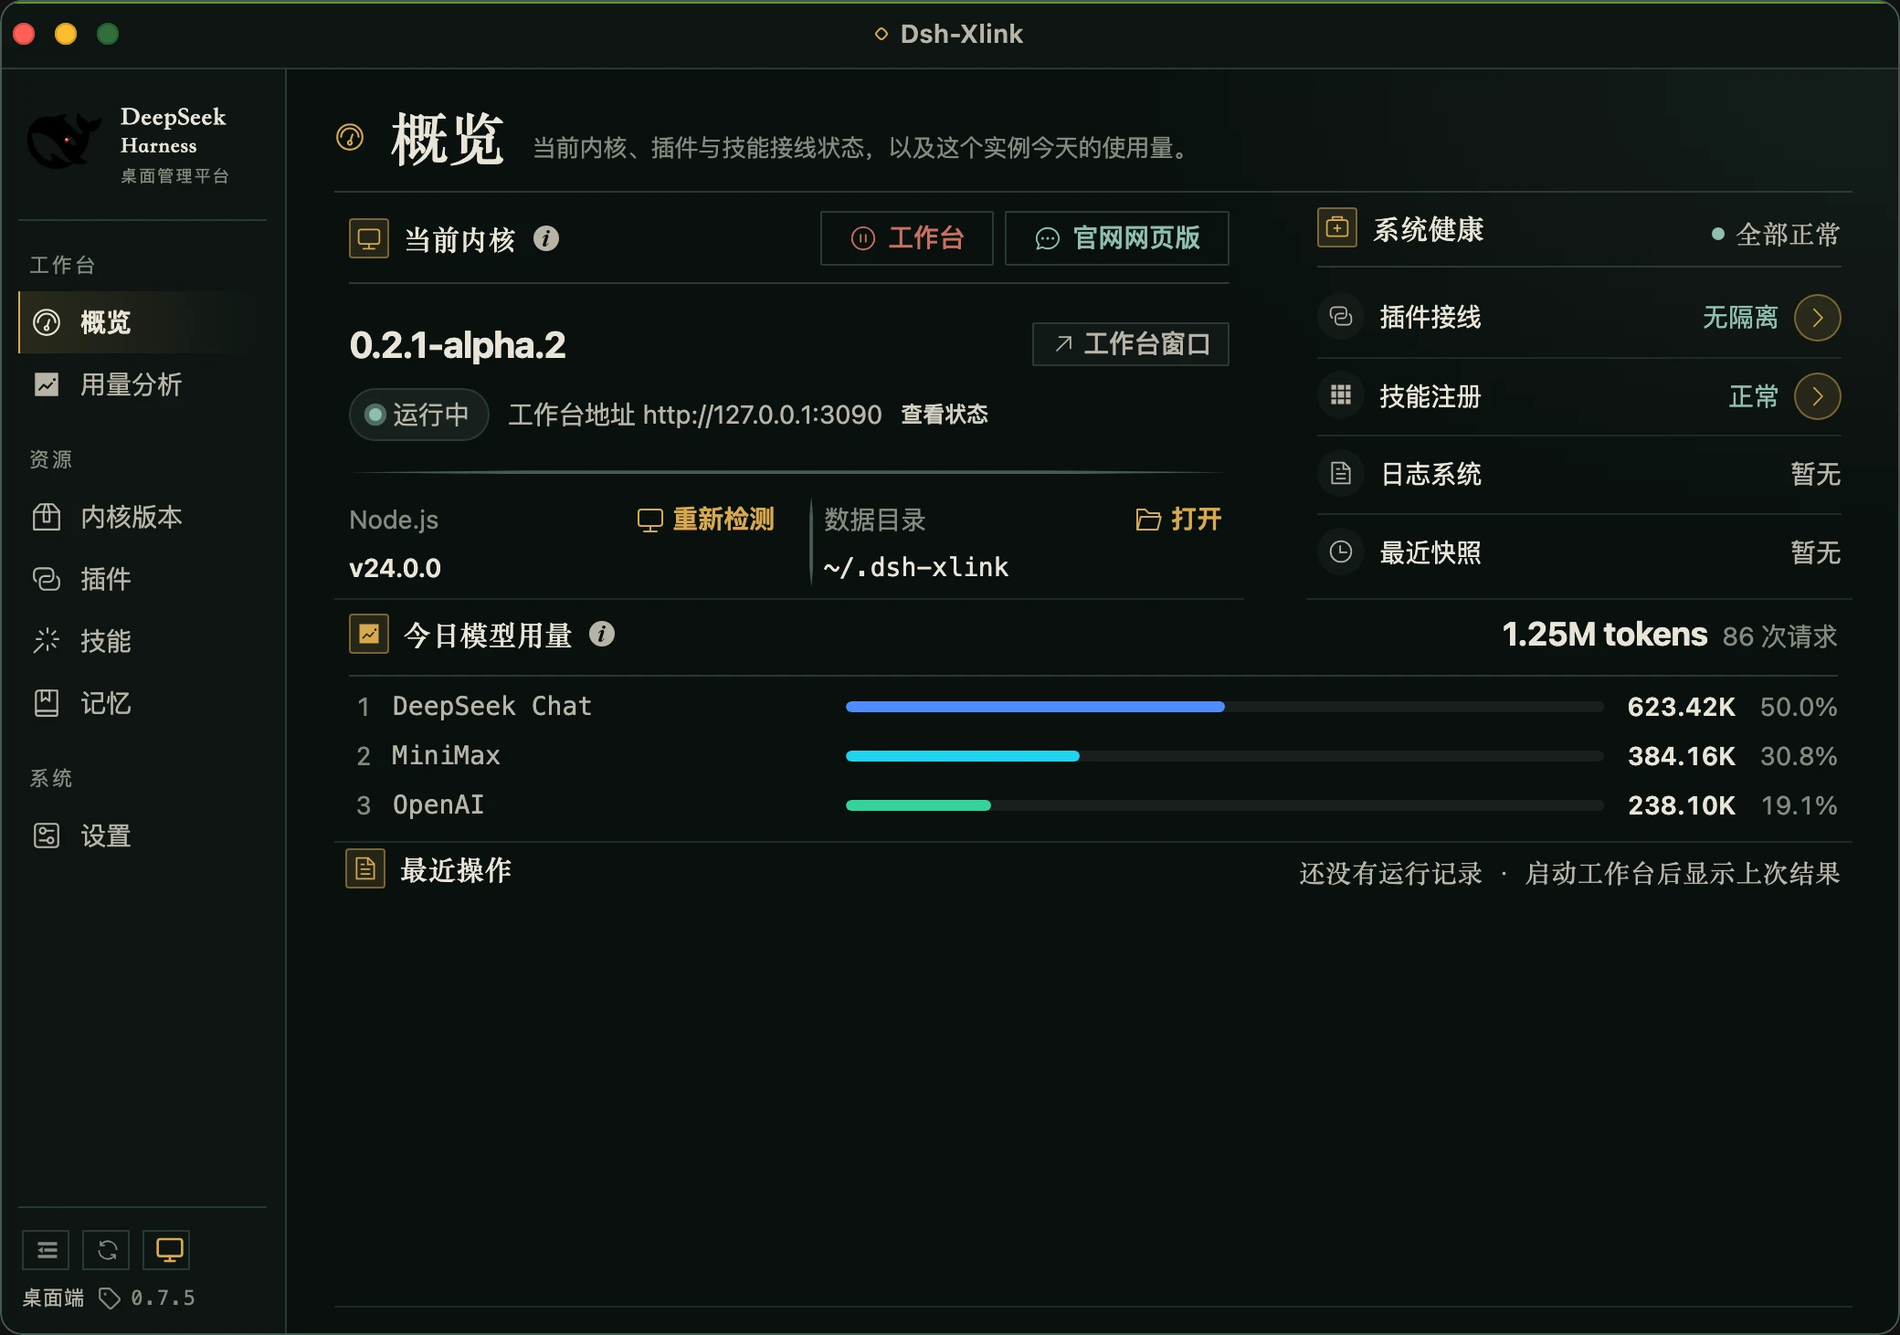
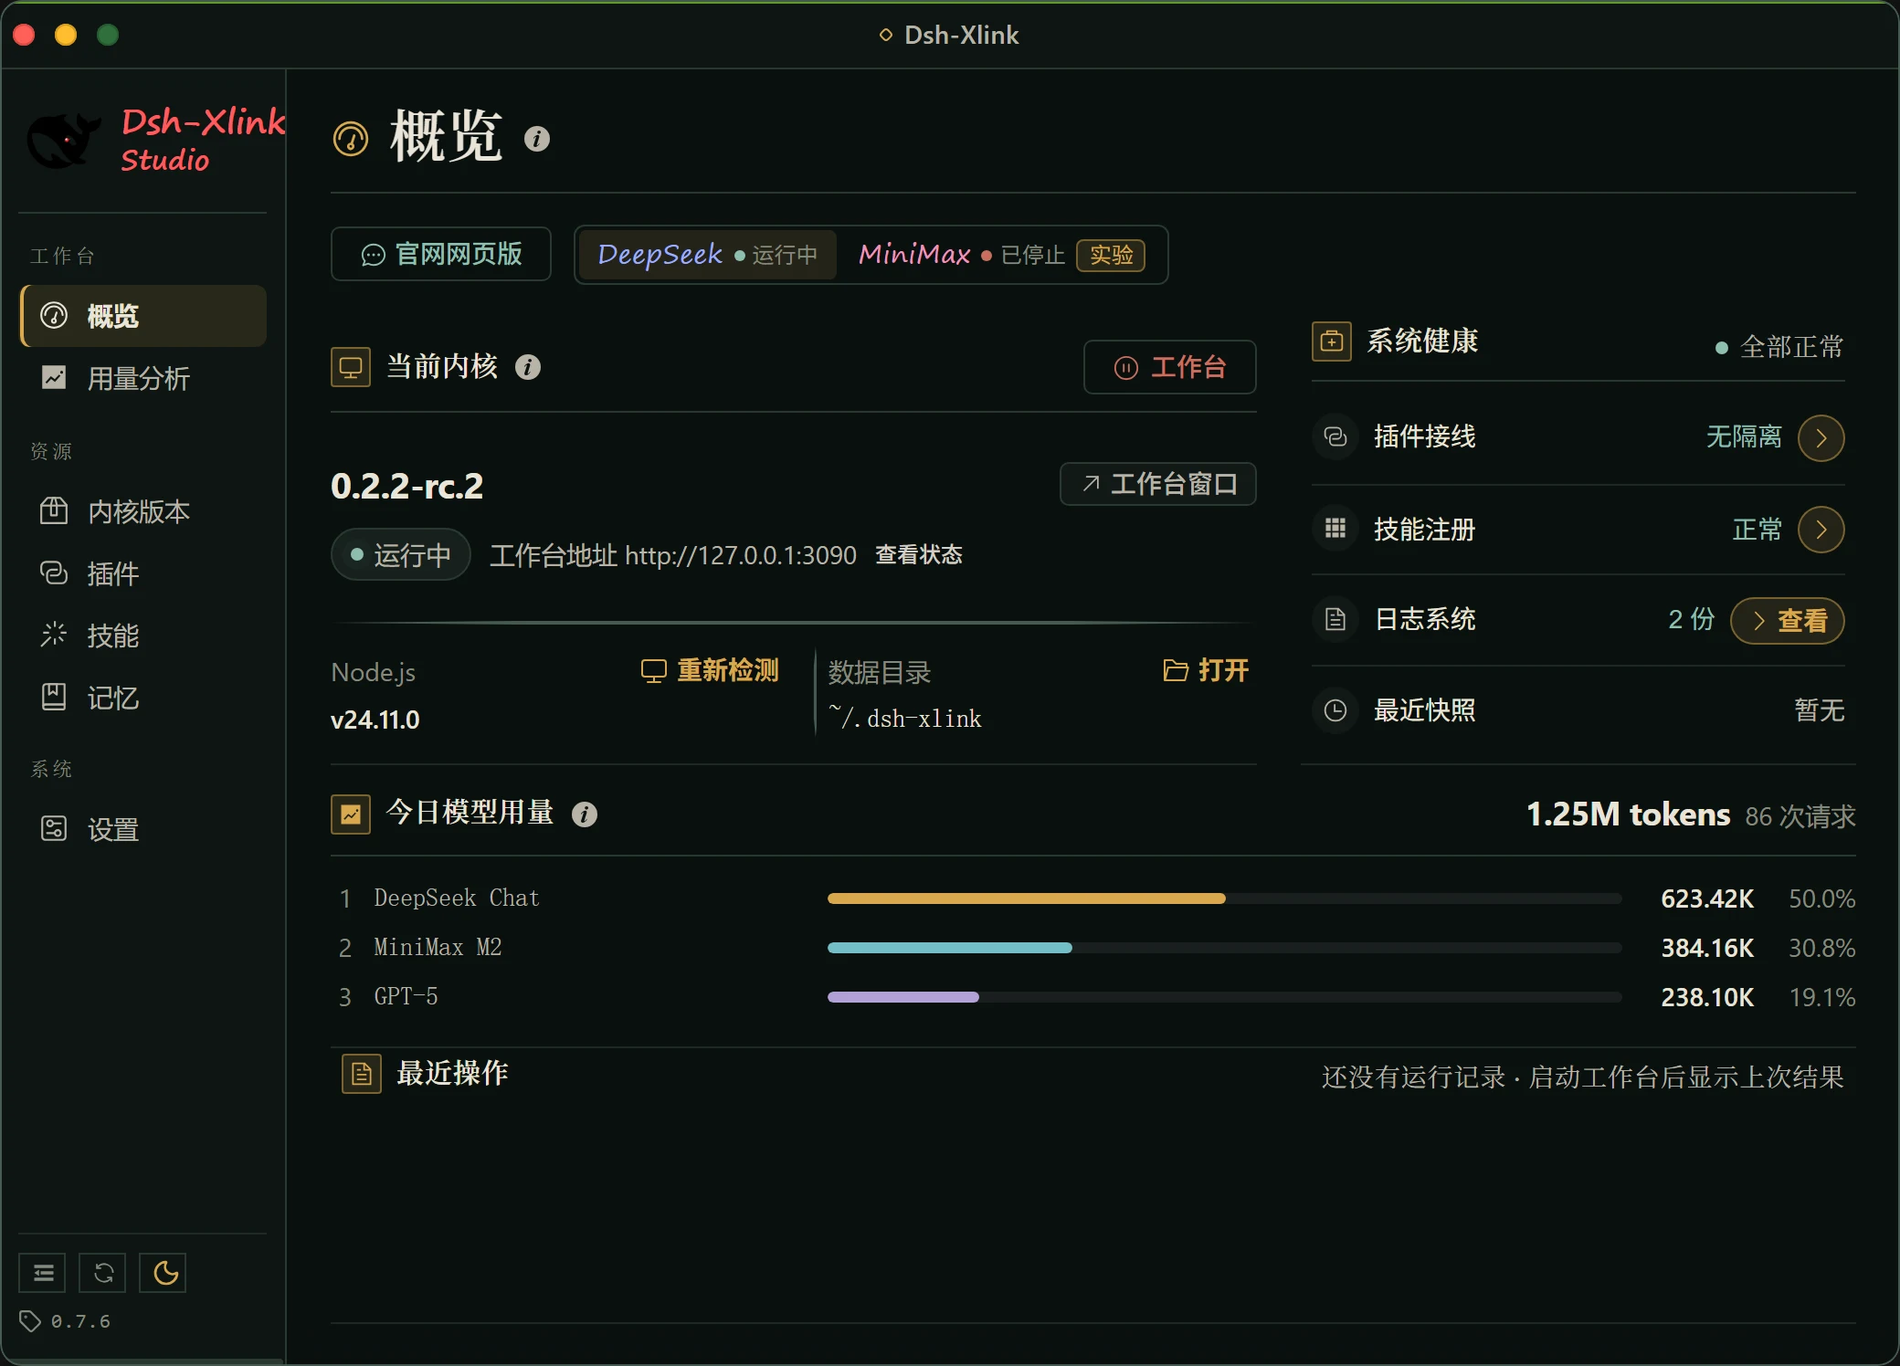
feat(website): 界面图更新到 0.7.6 并加入 MiniMax 双内核说明
概览截图按 0.7.6 管理面板源码重渲染（1040x748、2x），首页/功能页同步版本号；新增双内核小节与 MiniMax 内核截图，功能目录补「双内核」；修正窄屏下关闭区的标题断行。

diff --git a/website/index.html b/website/index.html
@@ -3,7 +3,7 @@
 <head>
   <meta charset="utf-8">
   <meta name="viewport" content="width=device-width, initial-scale=1">
-  <meta name="description" content="dsh-xlink：面向 DeepSeek Harness 的桌面工作台，支持多模型、会话引用和官网对话内容引用。">
+  <meta name="description" content="dsh-xlink：面向 DeepSeek Harness 的桌面工作台，支持 DSH 与实验性 MiniMax 双内核、多模型和官网对话引用。">
   <meta name="theme-color" content="#f2f1e9">
   <title>dsh-xlink · 让对话接着往前走</title>
   <link rel="icon" href="assets/whale-icon.svg" type="image/svg+xml">
@@ -20,6 +20,7 @@
       </a>
       <nav class="nav" aria-label="主导航">
         <a href="#experience">界面预览</a>
+        <a href="#kernels">双内核</a>
         <a href="features.html">功能说明</a>
         <a href="https://github.com/July-X/dsh-xlink">GitHub <span aria-hidden="true">↗</span></a>
       </nav>
@@ -30,7 +31,7 @@
   <main id="main">
     <section class="hero wrap" id="experience">
       <div class="hero-copy">
-        <p class="eyebrow"><span class="status-dot"></span> DEEPSEEK HARNESS DESKTOP <span class="eyebrow-rule"></span> V0.7.5</p>
+        <p class="eyebrow"><span class="status-dot"></span> DEEPSEEK HARNESS DESKTOP <span class="eyebrow-rule"></span> V0.7.6</p>
         <h1>让对话<br>接着往前走<span class="punctuation">。</span></h1>
         <p class="hero-lead">多模型、多会话，还有散落在官网里的对话。把需要的上下文带回同一个工作台，继续你的工作。</p>
         <div class="hero-actions">
@@ -42,8 +43,8 @@
       <div class="hero-visual">
         <div class="visual-meta"><span>THE DESKTOP WORKSPACE</span><span>01 — 02</span></div>
         <div class="compare" style="--split: 50%">
-          <img class="compare-image" src="assets/overview-dark.webp" width="2080" height="1462" alt="dsh-xlink 深色概览界面，显示内核状态、系统健康和今日模型用量。">
-          <div class="compare-light" aria-hidden="true"><img class="compare-image" src="assets/overview-light.webp" width="2080" height="1462" alt=""></div>
+          <img class="compare-image" src="assets/overview-dark.webp" width="2080" height="1496" alt="dsh-xlink 深色概览界面，显示 DSH / MiniMax 内核切换、系统健康和今日模型用量。">
+          <div class="compare-light" aria-hidden="true"><img class="compare-image" src="assets/overview-light.webp" width="2080" height="1496" alt=""></div>
           <div class="compare-divider" aria-hidden="true"><span>‹ <i></i> ›</span></div>
           <input class="compare-range" type="range" min="0" max="100" value="50" aria-label="左右滑动对比浅色与深色界面" aria-valuetext="浅色界面 50%，深色界面 50%">
         </div>
@@ -53,7 +54,7 @@
     </section>
 
     <div class="facts-bar">
-      <div class="wrap facts-inner"><span>一个桌面外壳 <b>·</b> 一个熟悉的工作台</span><span>官方 dsh 内核</span><span>MIT 开源</span></div>
+      <div class="wrap facts-inner"><span>一个桌面外壳 <b>·</b> 一个熟悉的工作台</span><span>DSH / MiniMax 双内核</span><span>MIT 开源</span></div>
     </div>
 
     <section class="section wrap story" id="references">
@@ -76,13 +77,34 @@
       </div>
     </section>
 
+    <section class="section wrap story" id="kernels">
+      <div class="section-intro">
+        <p class="eyebrow">02 / TWO KERNELS</p>
+        <h2>DSH 之外，<br>再放一个内核。</h2>
+        <p>开启 MiniMax 体验后，概览页会多一个内核切换器：安装 MiniMax Code，用它自己的实例和端口启动工作台。两个内核可以同时运行，插件、技能与记忆按各自协议接入。</p>
+        <a class="text-link" href="features.html#kernels">了解双内核 <span aria-hidden="true">→</span></a>
+      </div>
+      <div class="kernel-visual">
+        <div class="detail-screen">
+          <img src="assets/minimax-dark.webp" width="2080" height="1496" alt="dsh-xlink 深色概览界面，已切换到 MiniMax 内核，显示版本 0.1.7、运行状态、工作台地址和系统健康。">
+        </div>
+        <div class="detail-screen__caption"><span>MINIMAX KERNEL · 概览</span><span>示意</span></div>
+        <div class="detail-list kernel-facts">
+          <div><b>0.1.7</b><span>当前支持的 MiniMax Code 版本</span></div>
+          <div><b>2233 / 3344</b><span>工作台与 App 端口</span></div>
+          <div><b>独立实例</b><span>内核、端口与浏览器档案各自独立</span></div>
+        </div>
+        <p class="demo-footnote">MiniMax 是实验功能，默认关闭；在设置里开启后出现切换器。真实模型与浏览器能力的验收仍在进行。</p>
+      </div>
+    </section>
+
     <section class="section feature-section" id="features">
       <div class="wrap">
-        <div class="section-heading"><div><p class="eyebrow">02 / MADE FOR THE WORK</p><h2>工作台之外，<br>也照顾好工作台。</h2></div><a class="text-link" href="features.html">查看全部功能 <span aria-hidden="true">→</span></a></div>
+        <div class="section-heading"><div><p class="eyebrow">03 / MADE FOR THE WORK</p><h2>工作台之外，<br>也照顾好工作台。</h2></div><a class="text-link" href="features.html">查看全部功能 <span aria-hidden="true">→</span></a></div>
         <div class="feature-grid">
           <article class="feature-item"><span class="feature-number">01</span><div><h3>多模型，自由选择</h3><p>在工作台配置模型提供商，也可以通过内置插件登录 ChatGPT，按需要选择模型。</p></div><span class="feature-arrow" aria-hidden="true">↗</span></article>
           <article class="feature-item"><span class="feature-number">02</span><div><h3>官网会话，带回来用</h3><p>引用 DeepSeek、MiniMax 和 ChatGPT 网页对话中可提取的文字，省去反复复制。</p></div><span class="feature-arrow" aria-hidden="true">↗</span></article>
-          <article class="feature-item"><span class="feature-number">03</span><div><h3>内核、插件和技能</h3><p>安装与切换内核版本，管理插件和技能；安装插件前可先做兼容性预检。</p></div><span class="feature-arrow" aria-hidden="true">↗</span></article>
+          <article class="feature-item"><span class="feature-number">03</span><div><h3>内核、插件和技能</h3><p>安装与切换 dsh 和 MiniMax 的内核版本，管理插件和技能；安装插件前可先做兼容性预检。</p></div><span class="feature-arrow" aria-hidden="true">↗</span></article>
           <article class="feature-item"><span class="feature-number">04</span><div><h3>用量与本地记忆</h3><p>查看模型用量和可查询的套餐余额；按需启用本地记忆，让约定留在手边。</p></div><span class="feature-arrow" aria-hidden="true">↗</span></article>
         </div>
       </div>

diff --git a/website/features.html b/website/features.html
@@ -3,7 +3,7 @@
 <head>
   <meta charset="utf-8">
   <meta name="viewport" content="width=device-width, initial-scale=1">
-  <meta name="description" content="了解 dsh-xlink 的多模型、会话引用、官网对话、内核管理与用量分析功能。">
+  <meta name="description" content="了解 dsh-xlink 的多模型、会话引用、官网对话、DSH / MiniMax 双内核与用量分析功能。">
   <meta name="theme-color" content="#f2f1e9">
   <title>功能说明 · dsh-xlink</title>
   <link rel="icon" href="assets/whale-icon.svg" type="image/svg+xml">
@@ -21,10 +21,10 @@
 
   <main id="main">
     <section class="feature-hero wrap">
-      <div><p class="eyebrow">THE WORKSPACE / V0.7.5</p><h1>你的工作，<br>可以接着聊<span class="punctuation">。</span></h1></div>
-      <div class="feature-hero-aside"><p>从模型配置到会话引用，再到内核和用量管理。这里介绍当前版本已经提供的功能。</p><a class="text-link" href="index.html#experience">查看界面 <span aria-hidden="true">→</span></a></div>
+      <div><p class="eyebrow">THE WORKSPACE / V0.7.6</p><h1>你的工作，<br>可以接着聊<span class="punctuation">。</span></h1></div>
+      <div class="feature-hero-aside"><p>从模型配置、会话引用到 DSH / MiniMax 双内核和用量管理。这里介绍当前版本已经提供的功能。</p><a class="text-link" href="index.html#experience">查看界面 <span aria-hidden="true">→</span></a></div>
     </section>
-    <nav class="feature-nav wrap" aria-label="功能目录"><a href="#models">01 多模型</a><a href="#references">02 会话引用</a><a href="#desktop">03 桌面管理</a><a href="#usage">04 用量与记忆</a></nav>
+    <nav class="feature-nav wrap" aria-label="功能目录"><a href="#models">01 多模型</a><a href="#references">02 会话引用</a><a href="#kernels">03 双内核</a><a href="#desktop">04 桌面管理</a><a href="#usage">05 用量与记忆</a></nav>
 
     <section class="detail-section wrap" id="models">
       <div class="detail-index"><span>01 / MODELS</span><span>选择适合当前任务的模型</span></div>
@@ -40,13 +40,22 @@
       </div>
     </section>
 
+    <section class="detail-section" id="kernels">
+      <div class="wrap"><div class="detail-index"><span>03 / TWO KERNELS</span><span>一个窗口，两个内核</span></div>
+        <div class="detail-content"><div><h2>DSH 与 MiniMax，<br>各跑各的。</h2><p class="detail-lead">在设置里开启 MiniMax 体验后，概览页与内核版本页出现内核切换器。MiniMax Code 从官方 npm 版本安装，用自己的实例、端口和浏览器档案启动工作台，与 dsh 互不干扰。</p><p>两个内核可以同时运行、各自启停。公共页面只有一份骨架，切换时只换数据与少量字段；插件、技能与记忆按各自协议接入，Ponytail 也能在 MiniMax 侧启用。</p><a class="detail-source" href="https://github.com/July-X/dsh-xlink/blob/main/docs/architecture/multi-kernel/minimax-webui-integration-plan.md">查看 MiniMax 接入范围与验收状态 ↗</a></div>
+          <div class="detail-screen"><a href="assets/minimax-dark.webp" target="_blank" rel="noopener" aria-label="查看 MiniMax 内核概览原图（新窗口，图中为示例数据）"><img src="assets/minimax-dark.webp" width="2080" height="1496" alt="dsh-xlink 深色概览界面，已切换到 MiniMax 内核，状态与用量为示例数据。"><span class="detail-screen__caption"><span>MiniMax 内核 · 示例数据</span><span>查看原图 ↗</span></span></a></div>
+        </div>
+        <p class="detail-note">MiniMax 是实验功能，默认关闭，当前支持 0.1.7。真实模型、浏览器能力与安装包验收仍在进行；范围与最新结论以接入计划为准。</p>
+      </div>
+    </section>
+
     <section class="detail-section wrap" id="desktop">
-      <div class="detail-index"><span>03 / DESKTOP</span><span>给工作台一个安稳的家</span></div>
-      <div class="detail-content"><div><h2>把日常管理，<br>收进一个窗口。</h2><p class="detail-lead">安装、切换官方 dsh 内核，管理插件和技能。插件安装前可以先运行兼容性预检，遇到问题也有诊断与环境恢复入口。</p><p>关闭窗口后，应用可以继续在后台运行；从托盘或菜单栏回到工作台。深色、浅色和跟随系统三种外观可选。</p></div><div class="detail-screen"><a href="assets/overview-dark.webp" target="_blank" rel="noopener" aria-label="查看深色概览界面原图（新窗口，图中为示例数据）"><img src="assets/overview-dark.webp" width="2080" height="1462" alt="dsh-xlink 深色概览界面，状态和用量为示例数据。"><span class="detail-screen__caption"><span>当前界面渲染示意 · 示例数据</span><span>查看原图 ↗</span></span></a></div></div>
+      <div class="detail-index"><span>04 / DESKTOP</span><span>给工作台一个安稳的家</span></div>
+      <div class="detail-content"><div><h2>把日常管理，<br>收进一个窗口。</h2><p class="detail-lead">安装、切换官方 dsh 与 MiniMax 内核，管理插件和技能。插件安装前可以先运行兼容性预检，遇到问题也有诊断与环境恢复入口。</p><p>关闭窗口后，应用可以继续在后台运行；从托盘或菜单栏回到工作台。深色、浅色和跟随系统三种外观可选。</p></div><div class="detail-screen"><a href="assets/overview-dark.webp" target="_blank" rel="noopener" aria-label="查看深色概览界面原图（新窗口，图中为示例数据）"><img src="assets/overview-dark.webp" width="2080" height="1496" alt="dsh-xlink 深色概览界面，显示 DSH / MiniMax 内核切换，状态和用量为示例数据。"><span class="detail-screen__caption"><span>当前界面渲染示意 · 示例数据</span><span>查看原图 ↗</span></span></a></div></div>
     </section>
 
     <section class="detail-section wrap" id="usage">
-      <div class="detail-index"><span>04 / INSIGHT & MEMORY</span><span>用量有记录，约定有地方放</span></div>
+      <div class="detail-index"><span>05 / INSIGHT & MEMORY</span><span>用量有记录，约定有地方放</span></div>
       <div class="detail-content"><div><h2>看得见用量，<br>记得住约定。</h2><p class="detail-lead">查看本地内核的模型用量，以及已配置提供商可查询的套餐额度。也可以显式选择读取本机 Codex 或 MiniMax Desktop 的用量，来源分开统计。</p><p>本地记忆可按需启用，保存项目约定、工作交接和经验。使用远端模型时，注入的记忆会成为模型输入的一部分。</p></div><div class="detail-list"><div><b>90 天</b><span>本地模型用量统计窗口</span></div><div><b>按需开启</b><span>外部工具用量与本地记忆</span></div><div><b>按实例隔离</b><span>会话、记忆与内核数据</span></div></div></div>
     </section>
 

diff --git a/website/style.css b/website/style.css
@@ -140,6 +140,7 @@ h1, h2 { font-family: var(--serif); font-weight: 600; letter-spacing: -.06em; }
 .reference-steps small { color: #798b7b; font-size: 12px; }
 .detail-note { max-width: 900px; margin: 55px 0 0; padding-top: 18px; border-top: 1px solid #bdcbbd; color: #677c6a; font-size: 12px; line-height: 1.9; }
 #desktop .detail-content { grid-template-columns: 1fr; gap: 38px; }
+.kernel-facts { margin-top: 28px; }
 .detail-screen { width: min(100%, 1040px); }
 .detail-screen img { width: 100%; height: auto; border: 1px solid #607468; box-shadow: 0 18px 45px -25px #344b3b; }
 .detail-screen__caption { display: flex; justify-content: space-between; gap: 12px; margin-top: 15px; color: #718174; font-size: 11px; }
@@ -187,6 +188,7 @@ h1, h2 { font-family: var(--serif); font-weight: 600; letter-spacing: -.06em; }
   .feature-item, .feature-item:nth-child(even) { min-height: 0; padding: 27px 0; border-left: 0; }
   .feature-item h3 { font-size: 20px; }
   .closing { display: block; margin-top: 75px; padding: 42px 28px; }
+  .closing h2 { font-size: clamp(28px, 8.2vw, 33px); }
   .closing-actions { margin-top: 30px; max-width: 220px; }
   .site-footer { flex-wrap: wrap; gap: 12px 25px; line-height: 1.7; }
   .site-footer > span { flex-basis: 100%; order: 3; }

diff --git a/README.md b/README.md
@@ -10,7 +10,7 @@
 
 ## 界面速览
 
-管理面板支持浅色、深色和跟随系统。设置页将 DSH 稳定内核端口与 MiniMax 实验内核双端口分组显示，MiniMax 使用粉色边框和实验标识；仍由同一个「保存配置」按钮保存。保存只提交点击时的端口值，等待期间继续编辑的内容会保留为未保存草稿。概览页显示内核、系统健康和今日模型用量；套餐额度与完整用量统计在「工作台 → 用量分析」中。下面的界面图基于 v0.7.5 前端渲染，状态与用量使用示例数据。打开[宣传站](https://dsh-xlink.pages.dev/)可以左右拖动对比两种主题。
+管理面板支持浅色、深色和跟随系统。设置页将 DSH 稳定内核端口与 MiniMax 实验内核双端口分组显示，MiniMax 使用粉色边框和实验标识；仍由同一个「保存配置」按钮保存。保存只提交点击时的端口值，等待期间继续编辑的内容会保留为未保存草稿。概览页显示内核、系统健康和今日模型用量；套餐额度与完整用量统计在「工作台 → 用量分析」中。下面的界面图基于 v0.7.6 前端渲染，状态与用量使用示例数据；MiniMax 内核的界面示意在[宣传站](https://dsh-xlink.pages.dev/)的「双内核」一节。打开宣传站可以左右拖动对比两种主题。
 
 | 浅色 | 深色 |
 | --- | --- |

diff --git a/website/README.md b/website/README.md
@@ -8,7 +8,7 @@ python3 -m http.server 8080 --directory website
 
 然后访问 <http://localhost:8080>。`features.html` 是功能说明页；站点不依赖构建工具或外部资源。
 
-首页两张概览图基于 v0.7.5 的管理面板源码渲染，使用模拟的桌面桥响应和示例数据，不包含用户数据，也不作为实机功能验收证据。更新截图时应使用同一窗口尺寸和同一组示例数据，保持两种主题内容对齐。功能描述以仓库当前实现和对应专题的验收状态为准。
+界面图基于 v0.7.6 的管理面板源码渲染（窗口 1040×748、2× 缩放），使用模拟的桌面桥响应和示例数据，不包含用户数据，也不作为实机功能验收证据。首页两张概览图与功能页的 MiniMax 内核图使用同一组示例数据，两种主题的内容保持一致。更新截图时应使用同一窗口尺寸和同一组示例数据。功能描述以仓库当前实现和对应专题的验收状态为准。
 
 检查主题对比交互：`node --test website/site.test.mjs`。
 
